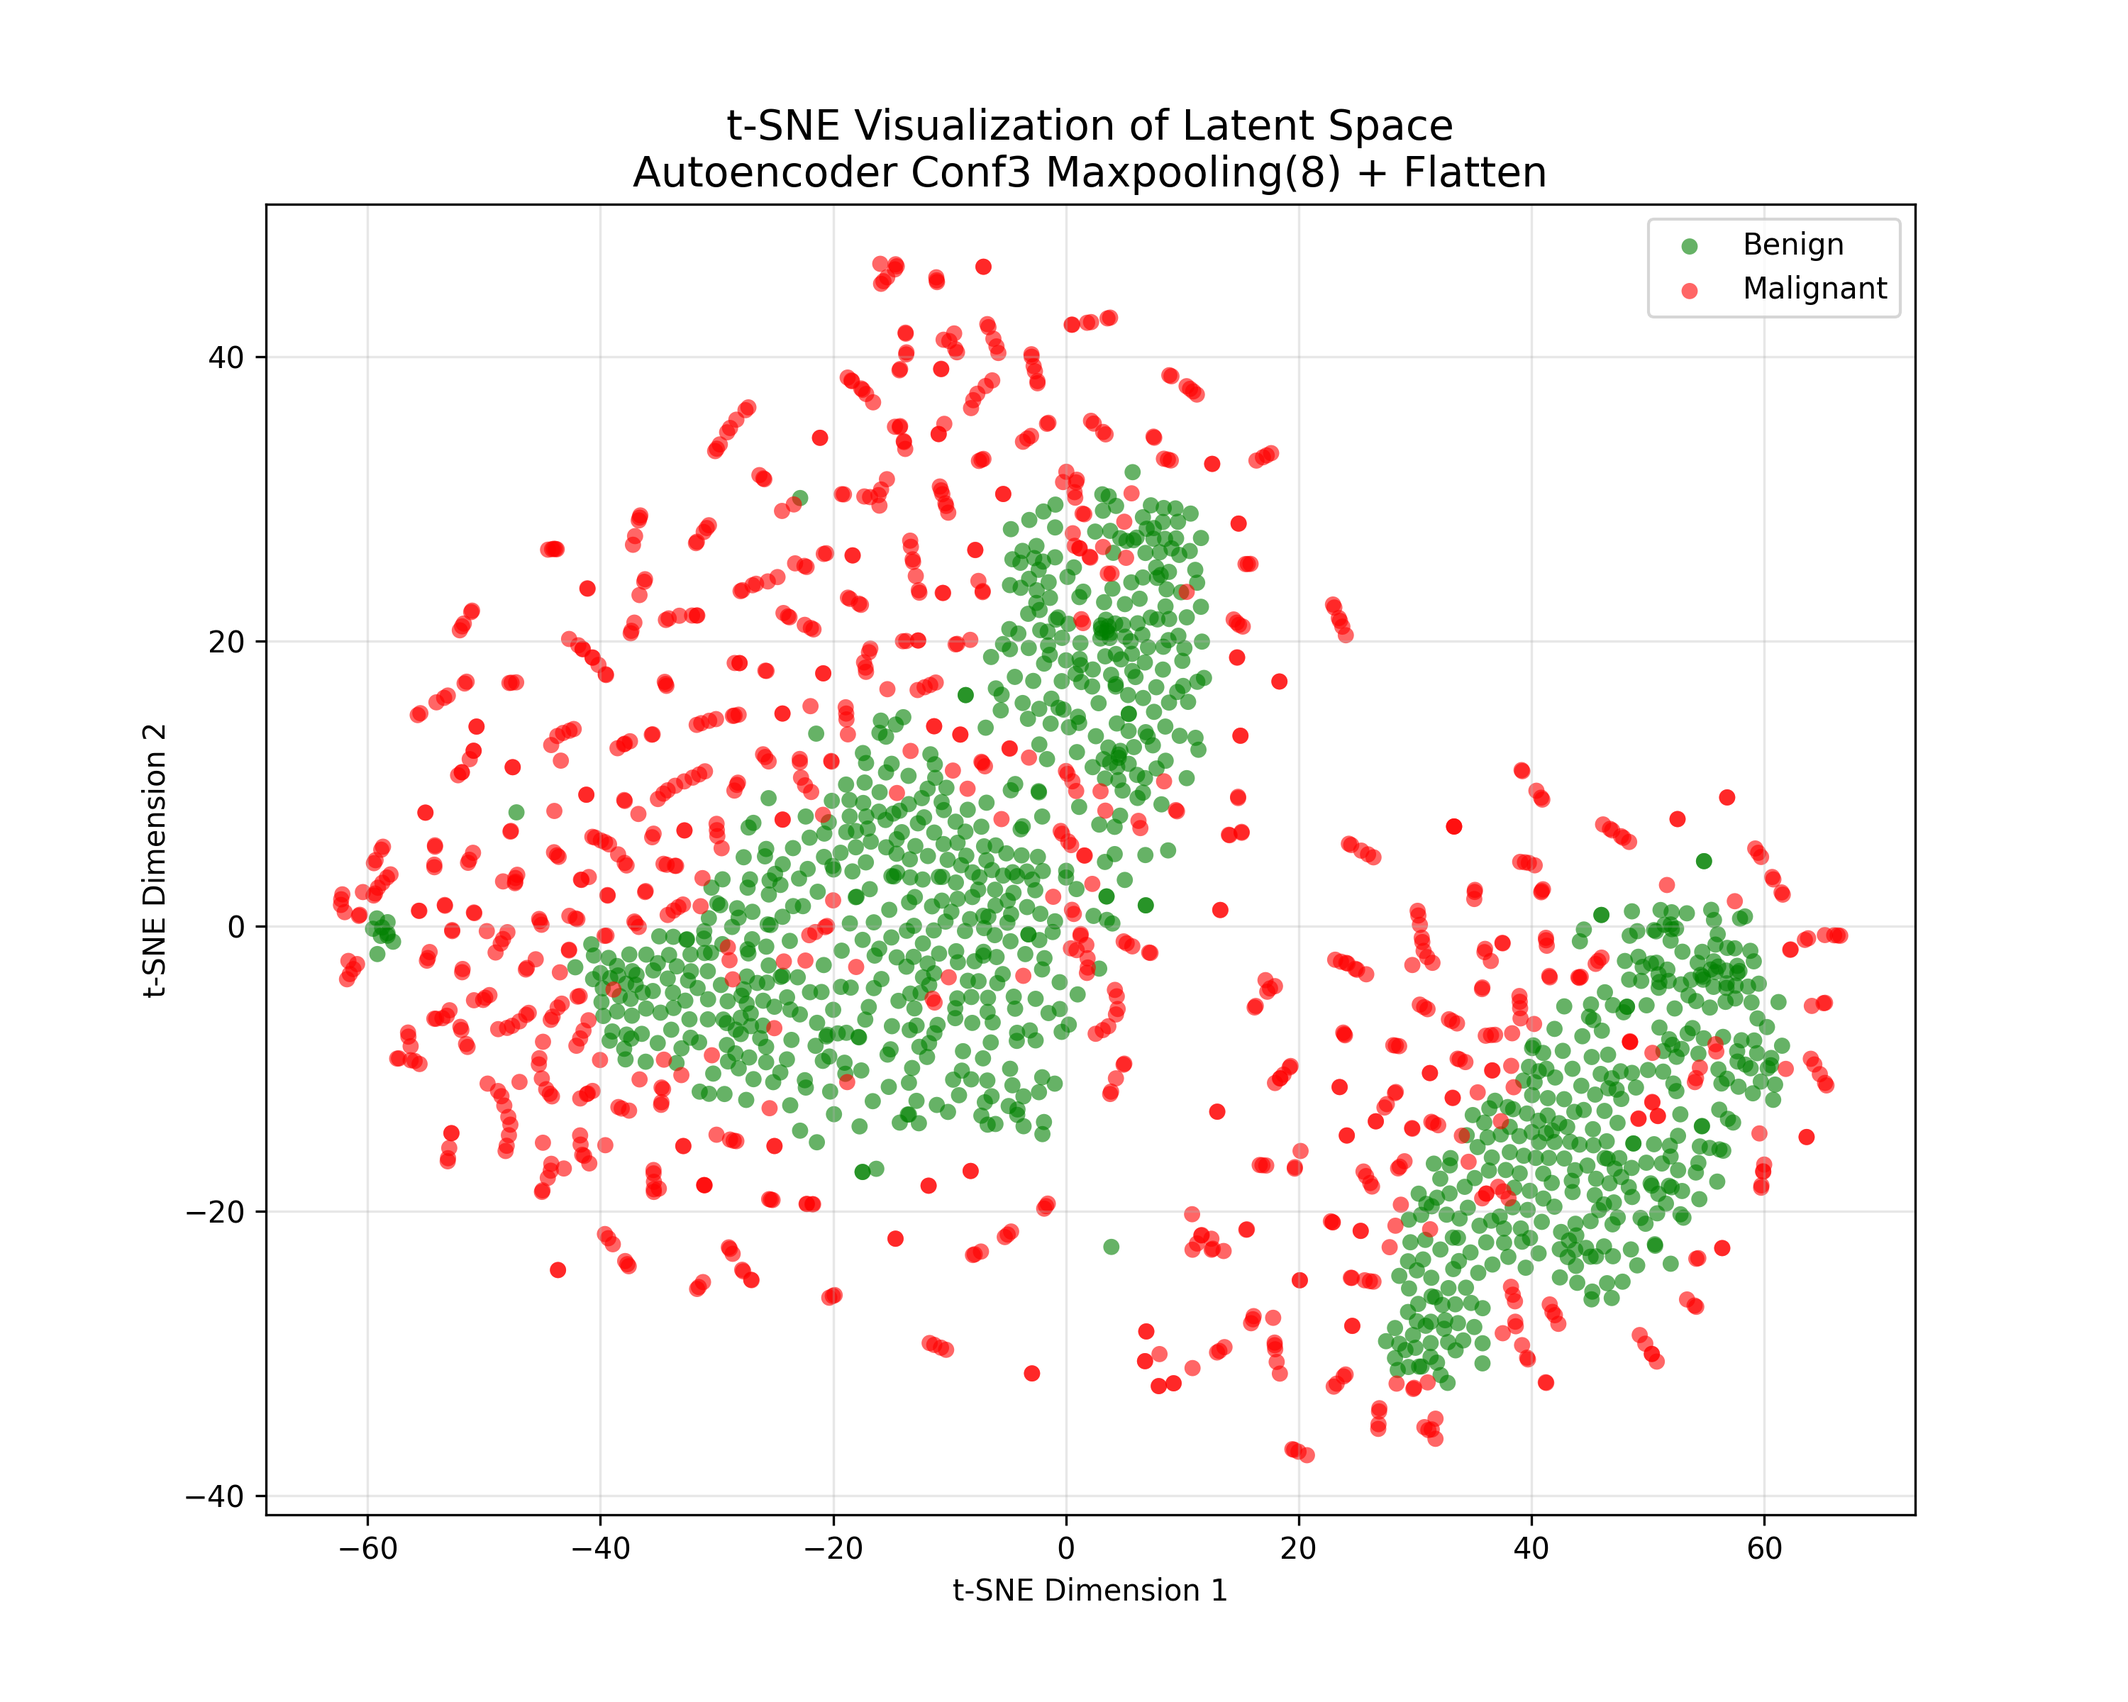
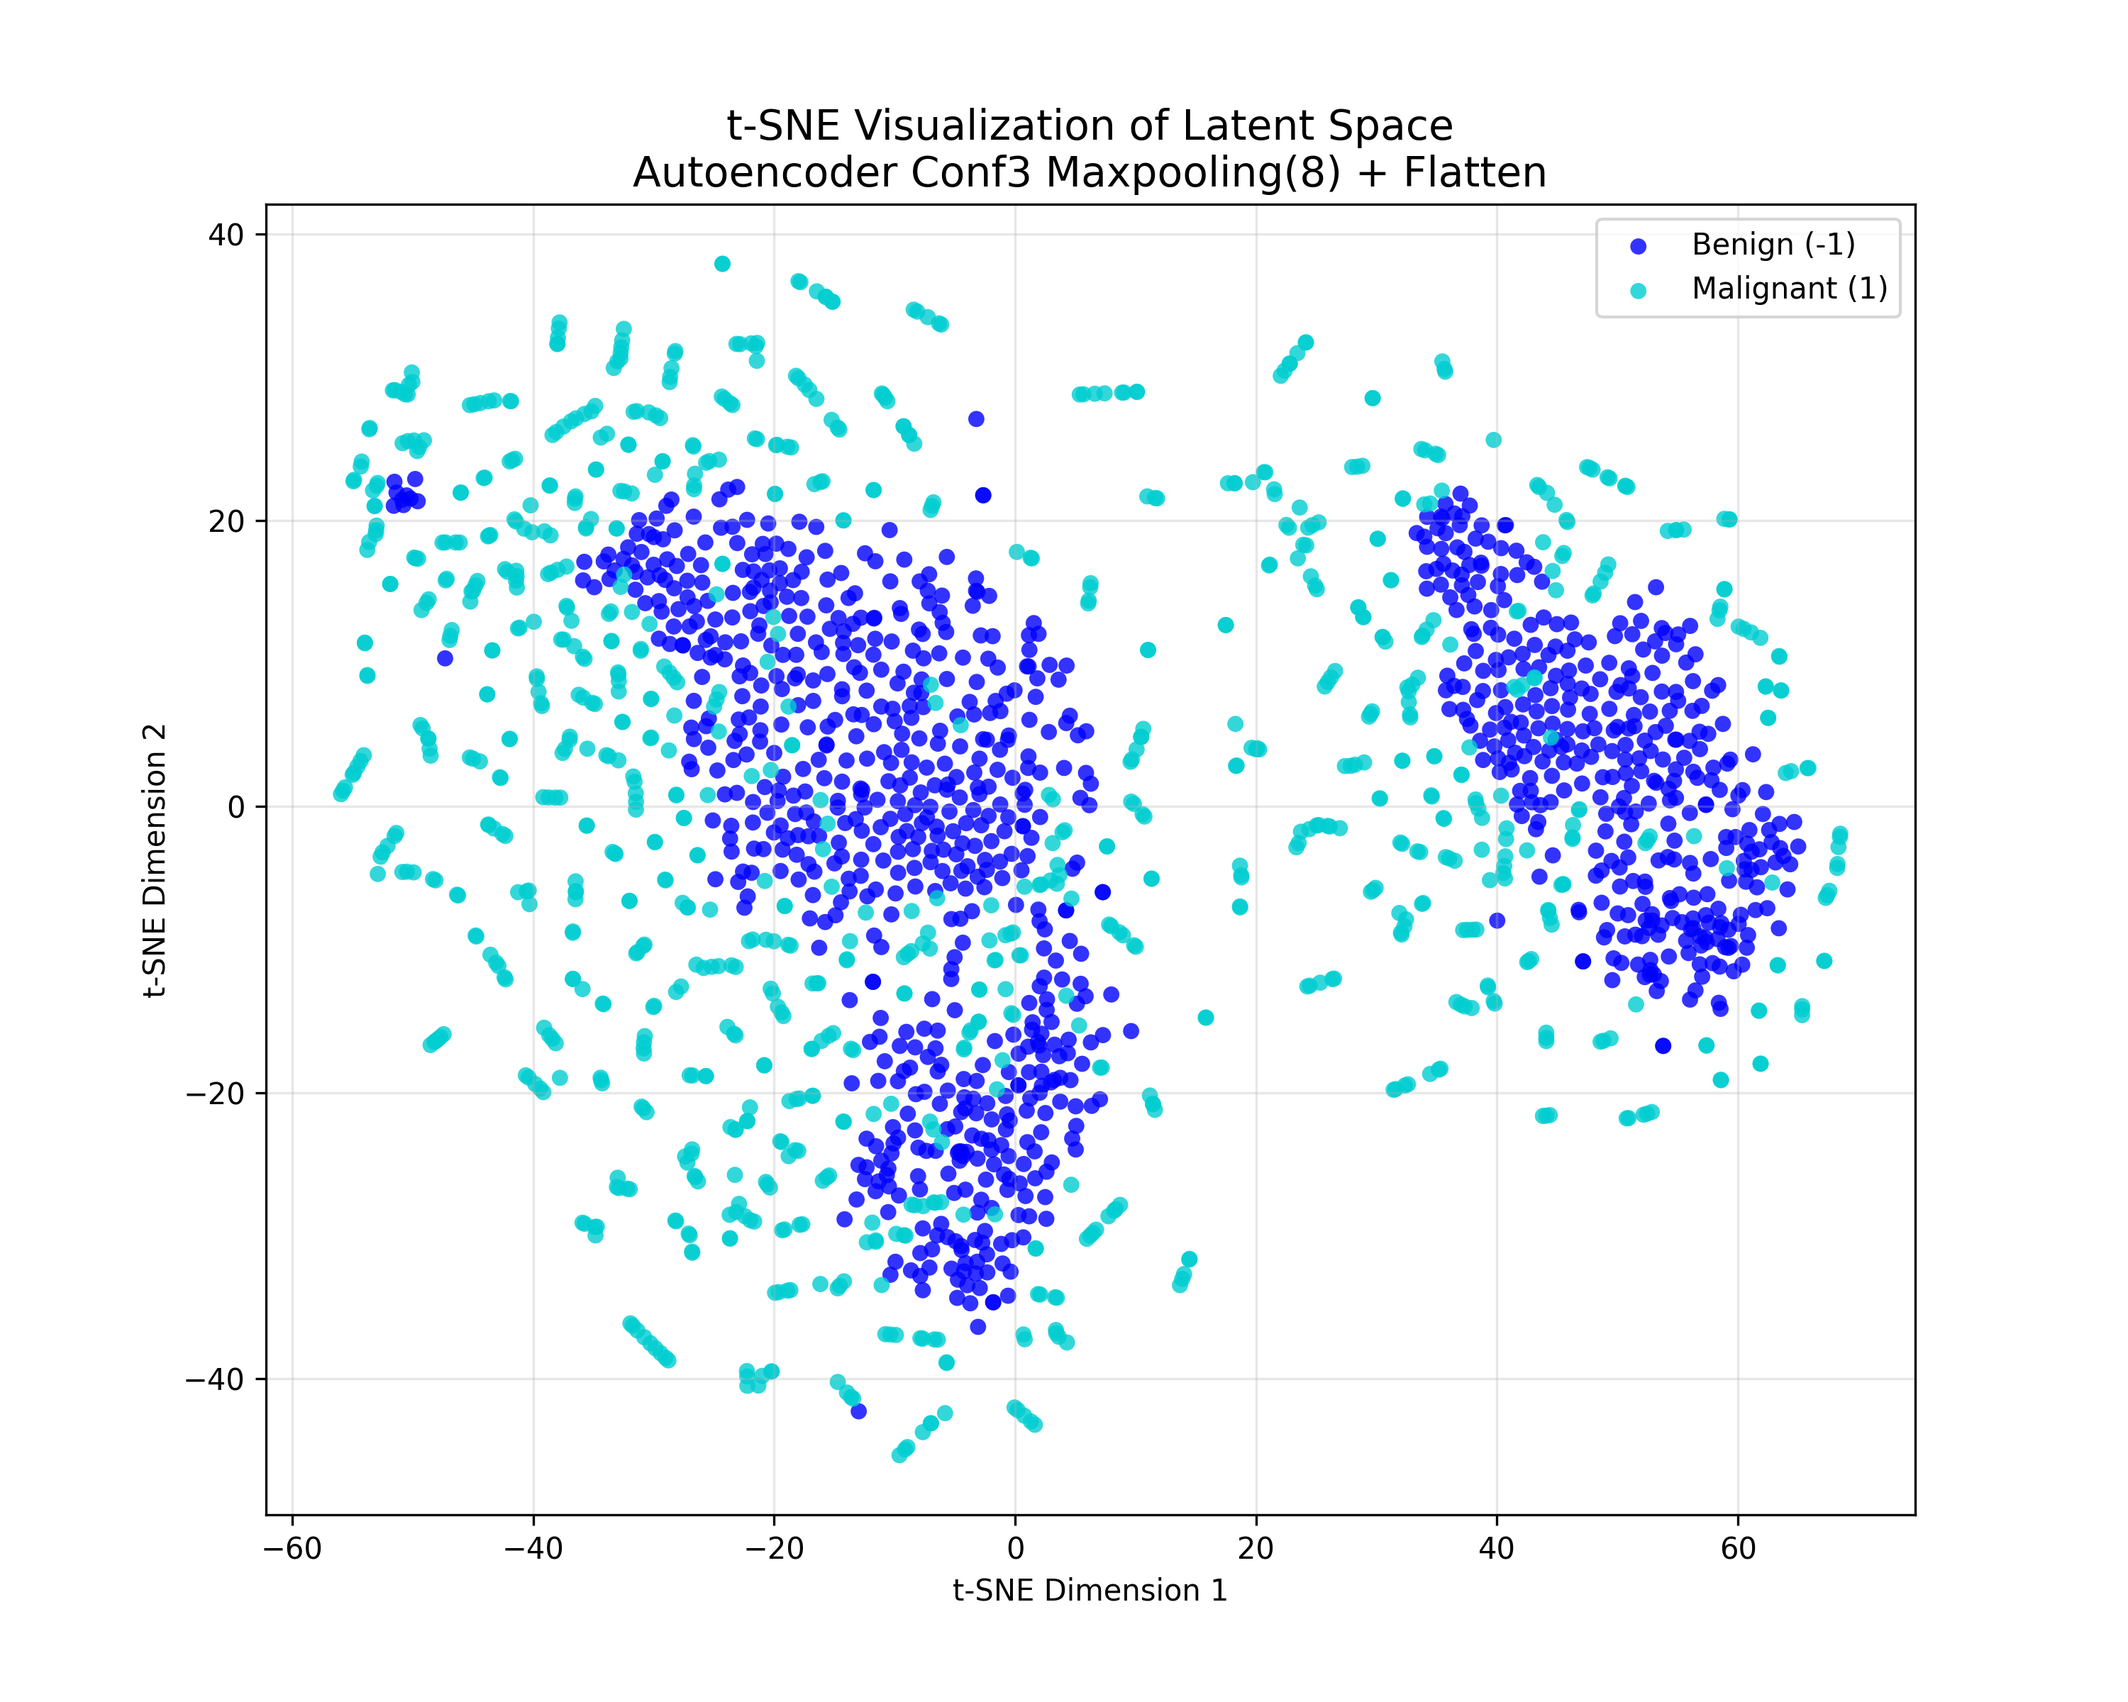
Triplet loss en proceso (creo que va)

diff --git a/tripletLoss.py b/tripletLoss.py
@@ -1,0 +1,299 @@
+import torch
+import torch.nn as nn
+from torch.utils.data import DataLoader, Dataset
+import matplotlib.pyplot as plt
+import numpy as np
+import os
+import random
+from sklearn.manifold import TSNE
+from sklearn.decomposition import PCA
+import torch.nn.functional as F
+
+# Custom imports
+from dataset import HelicoAnnotated, annotated_collate
+from Models.AEmodels import AutoEncoderCNN, VAECNN
+from train_conv_ae import AEConfigs
+from train_conv_vae import VAEConfigs
+
+# ----------------------------
+# CONFIGURATION
+# ----------------------------
+DEVICE = torch.device("cuda" if torch.cuda.is_available() else "cpu")
+MODEL_PATH = "/fhome/vlia01/Medical-Imaging/slurm_output/config_three.pth"
+#MODEL_PATH = "/fhome/vlia01/Medical-Imaging/slurm_output/vae_2.pth"
+BATCH_SIZE = 64 
+MODEL_NAME = "Autoencoder" # "Autoencoder" or "Variational Autoencoder"
+SAVE_FIG = True
+MAX_SAMPLES = 2000 # Total samples to visualize (will try to take half from each class)
+LEARNING_RATE = 1e-4
+EMBEDDING_DIM = 128
+NUM_EPOCHS = 50
+
+# ----------------------------
+# 1. LOAD MODEL
+# ----------------------------
+def load_model(config_id="3", model_path=None, model_name="Autoencoder"):
+    print(f"Loading {model_name} from {model_path}...")
+    
+    if model_name == "Autoencoder":
+        net_paramsEnc, net_paramsDec, inputmodule_paramsEnc, inputmodule_paramsDec = AEConfigs(config_id)
+        model = AutoEncoderCNN(inputmodule_paramsEnc, net_paramsEnc, inputmodule_paramsDec, net_paramsDec)
+    elif model_name == "Variational Autoencoder":
+        net_paramsEnc, net_paramsDec, inputmodule_paramsEnc, inputmodule_paramsDec, net_paramsRep = VAEConfigs(config_id)
+        model = VAECNN(inputmodule_paramsEnc, net_paramsEnc, inputmodule_paramsDec, net_paramsDec, net_paramsRep)
+    else:
+        raise ValueError("Invalid model name")
+    
+    if model_path and os.path.exists(model_path):
+        model.load_state_dict(torch.load(model_path, map_location=DEVICE))
+    else:
+        print(f"Warning: Weights not found at {model_path}. Visualization will be random.")
+            
+    model.to(DEVICE)
+    model.eval()
+    return model
+    
+# ----------------------------
+# 2. EMBEDDING NETWORK FOR TRIPLET
+# ----------------------------
+class EmbeddingNet(nn.Module):
+    def __init__(self, base_model, embedding_dim=128):
+        super().__init__()
+        self.encoder = base_model.encoder
+        self.pool = nn.AdaptiveMaxPool2d((8, 8))
+        self.fc = nn.LazyLinear(embedding_dim)
+
+    def forward(self, x):
+        z = self.encoder(x)           # [B, C, H, W]
+        z = self.pool(z)              # [B, C, 8, 8]
+        z = z.view(z.size(0), -1)     # flatten
+        z = self.fc(z)                # [B, embedding_dim]
+        z = F.normalize(z, p=2, dim=1)
+        return z
+
+
+# ---------------------------
+# 3. Triplet Loss
+# ---------------------------
+
+class TripletLoss(nn.Module):
+    """
+    L = max(0, d(a,p) - d(a,n) + margin)
+    where d is squared Euclidean distance.
+    """
+    def __init__(self, margin=1.0):
+        super(TripletLoss, self).__init__()
+        self.margin = margin
+
+    def calc_euclidean(self, x1, x2):
+        # x1, x2: [B, D] -> returns [B]
+        return (x1 - x2).pow(2).sum(dim=1)
+
+    def forward(self, anchor, positive, negative):
+        distance_positive = self.calc_euclidean(anchor, positive)
+        distance_negative = self.calc_euclidean(anchor, negative)
+        losses = torch.relu(distance_positive - distance_negative + self.margin)
+        return losses.mean()
+
+
+# ----------------------------------------
+# 4. TripletDataset built from QuironDataset
+# ----------------------------------------
+
+class TripletDataset(Dataset):
+    def __init__(self, base_dataset):
+        super(TripletDataset, self).__init__()
+        self.base = base_dataset
+        self.samples = base_dataset.samples  # list of (path, label, pat_id)
+
+        # Build dictionary: label - list of indices with that label
+        self.label_to_indices = {}
+        for idx, (_, label, _) in enumerate(self.samples):
+            if label not in self.label_to_indices:
+                self.label_to_indices[label] = []
+            self.label_to_indices[label].append(idx)
+
+        self.labels = np.array([lbl for (_, lbl, _) in self.samples])
+        self.unique_labels = list(self.label_to_indices.keys())
+
+        if len(self.unique_labels) < 2:
+            raise RuntimeError("Need at least 2 different labels to form triplets.")
+
+    def __len__(self):
+        return len(self.samples)
+        
+    def safe_get(self, index):
+        """Get image and label, skip if None"""
+        data = self.base[index]
+        while data is None:
+            index = (index + 1) % len(self.base)
+            data = self.base[index]
+        return data
+
+    def __getitem__(self, idx):
+        # Anchor
+        anchor_img, anchor_label = self.safe_get(idx)
+    
+        # Positive (same label)
+        same_label_indices = self.label_to_indices[anchor_label]
+        if len(same_label_indices) > 1:
+            pos_idx = idx
+            while pos_idx == idx:
+                pos_idx = random.choice(same_label_indices)
+        else:
+            pos_idx = idx
+        positive_img, _ = self.safe_get(pos_idx)
+    
+        # Negative (different label)
+        neg_label_choices = [l for l in self.unique_labels if l != anchor_label]
+        neg_label = random.choice(neg_label_choices)
+        neg_idx = random.choice(self.label_to_indices[neg_label])
+        negative_img, _ = self.safe_get(neg_idx)
+    
+        return anchor_img, positive_img, negative_img
+
+
+
+# ----------------------------
+# 5. EXTRACT LATENT VECTORS FOR TSNE
+# ----------------------------
+def get_latent_vectors(dataloader, model, model_name="Autoencoder", max_samples=None, force_label=None):
+    latents_list = []
+    labels_list = []
+    total_samples = 0
+    
+    dataset_name = "Benign" if force_label == 0 else "Malignant"
+    print(f"Extracting latent vectors for {dataset_name}...")
+
+    with torch.no_grad():
+        for batch in dataloader:
+            images, targets = batch
+            images = images.to(DEVICE).float()
+            if images.dtype == torch.uint8:
+                images = images.float() / 255.0
+
+            if model_name == "Variational Autoencoder":
+                _, mu, _ = model(images)
+                curr_latents = mu
+            else:
+                curr_latents = model.encoder(images)
+
+            if curr_latents.ndim == 4:
+                curr_latents = F.adaptive_max_pool2d(curr_latents, (8, 8))
+            curr_latents = curr_latents.view(curr_latents.size(0), -1)
+            latents_list.append(curr_latents.cpu().numpy())
+
+            if force_label is not None:
+                labels_list.append(np.full(images.size(0), force_label))
+            else:
+                labels_list.append(targets.numpy())
+
+            total_samples += images.size(0)
+            if max_samples and total_samples >= max_samples:
+                break
+
+    latents = np.concatenate(latents_list, axis=0) if latents_list else np.array([])
+    labels = np.concatenate(labels_list, axis=0) if labels_list else np.array([])
+
+    if max_samples:
+        latents = latents[:max_samples]
+        labels = labels[:max_samples]
+
+    return latents, labels
+
+# ----------------------------
+# 6. TSNE PLOTTING
+# ----------------------------
+def plot_tsne(latents, labels, model_name="Model"):
+    print(f"Computing t-SNE on {latents.shape[0]} samples with {latents.shape[1]} dimensions...")
+    tsne = TSNE(n_components=2, random_state=42, perplexity=40, max_iter=1000, learning_rate='auto', init='pca')
+    tsne_results = tsne.fit_transform(latents)
+
+    print("Plotting...")
+    plt.figure(figsize=(12, 10))
+    labels = labels.astype(int)
+    benign_mask = (labels == 0)
+    malign_mask = (labels == 1)
+
+    plt.scatter(tsne_results[benign_mask, 0], tsne_results[benign_mask, 1], 
+                c='blue', label='Benign (-1)', alpha=0.8, s=40, edgecolors='none')
+    plt.scatter(tsne_results[malign_mask, 0], tsne_results[malign_mask, 1], 
+                c='darkturquoise', label='Malignant (1)', alpha=0.8, s=40, edgecolors='none')
+
+    plt.title(f"t-SNE of Latent Space\n{model_name} conf3 + TRIPLET LOSS", fontsize=16)
+    plt.xlabel("t-SNE Dimension 1", fontsize=14)
+    plt.ylabel("t-SNE Dimension 2", fontsize=14)
+    plt.legend(loc='best', fontsize=12)
+    plt.grid(alpha=0.3)
+
+    if SAVE_FIG:
+        save_dir = "/fhome/vlia01/Medical-Imaging/results"
+        os.makedirs(save_dir, exist_ok=True)
+        plt.savefig(os.path.join(save_dir, f"TripletLoss_{model_name.replace(' ', '_')}.png"), dpi=300)
+    plt.show()
+
+# ----------------------------
+# 7. MAIN
+# ----------------------------
+def main():
+    # Load AE/VAE model
+    model = load_model(config_id="3", model_path=MODEL_PATH, model_name=MODEL_NAME)
+    
+    ###
+    # Triplet Training
+    ###
+    print(f"Starting embbedings...")
+    embedding_model = EmbeddingNet(model, embedding_dim=EMBEDDING_DIM).to(DEVICE)
+    embedding_model.train()
+    criterion = TripletLoss(margin=1.0)
+    optimizer = torch.optim.Adam(embedding_model.parameters(), lr=LEARNING_RATE)
+
+    triplet_dataset = TripletDataset(base_dataset=HelicoAnnotated(load_ram=False))
+    triplet_loader = DataLoader(triplet_dataset, batch_size=BATCH_SIZE, shuffle=True)
+
+    for epoch in range(NUM_EPOCHS):
+        epoch_loss = 0
+        for anchor, positive, negative in triplet_loader:
+            anchor = anchor.to(DEVICE).float()
+            positive = positive.to(DEVICE).float()
+            negative = negative.to(DEVICE).float()
+            if anchor.max() > 1:
+                anchor /= 255.0
+                positive /= 255.0
+                negative /= 255.0
+
+            z_anchor = embedding_model(anchor)
+            z_pos = embedding_model(positive)
+            z_neg = embedding_model(negative)
+
+            loss = criterion(z_anchor, z_pos, z_neg)
+            optimizer.zero_grad()
+            loss.backward()
+            optimizer.step()
+            epoch_loss += loss.item()
+
+        print(f"Epoch [{epoch+1}/{NUM_EPOCHS}], Loss: {epoch_loss/len(triplet_loader):.4f}")
+
+    ###
+    # Extract embeddings for TSNE
+    ###
+    dataset_benign = HelicoAnnotated(only_negative=True, load_ram=False)
+    dataset_malign = HelicoAnnotated(only_positive=True, load_ram=False)
+
+    loader_benign = DataLoader(dataset_benign, batch_size=BATCH_SIZE, shuffle=True, collate_fn=annotated_collate)
+    loader_malign = DataLoader(dataset_malign, batch_size=BATCH_SIZE, shuffle=True, collate_fn=annotated_collate)
+
+    samples_per_class = MAX_SAMPLES // 2 if MAX_SAMPLES else None
+
+    latents_b, labels_b = get_latent_vectors(loader_benign, embedding_model, MODEL_NAME, samples_per_class, force_label=0)
+    latents_m, labels_m = get_latent_vectors(loader_malign, embedding_model, MODEL_NAME, samples_per_class, force_label=1)
+
+    if len(latents_b) > 0 and len(latents_m) > 0:
+        latents = np.concatenate([latents_b, latents_m], axis=0)
+        labels = np.concatenate([labels_b, labels_m], axis=0)
+        plot_tsne(latents, labels, model_name=MODEL_NAME)
+    else:
+        print("Error: Could not extract latents from one or both datasets.")
+
+if __name__ == "__main__":
+    main()

diff --git a/tsne_2.py b/tsne_2.py
@@ -158,10 +158,10 @@ def plot_tsne(latents, labels, model_name="Model"):
     
     # Scatter Plot
     plt.scatter(tsne_results[benign_mask, 0], tsne_results[benign_mask, 1], 
-                c='green', label='Benign', alpha=0.6, s=30, edgecolors='none')
+                c='blue', label='Benign (-1)', alpha=0.8, s=30, edgecolors='none')
     
     plt.scatter(tsne_results[malign_mask, 0], tsne_results[malign_mask, 1], 
-                c='red', label='Malignant', alpha=0.6, s=30, edgecolors='none')
+                c='darkturquoise', label='Malignant (1)', alpha=0.8, s=30, edgecolors='none')
     
     plt.title(f"t-SNE Visualization of Latent Space\n{model_name} Conf3 Maxpooling(8) + Flatten", fontsize=14)
     plt.xlabel("t-SNE Dimension 1")

diff --git a/dataset.py b/dataset.py
@@ -199,7 +199,8 @@ class HelicoAnnotated(Dataset):
                 image = self.transform(image)
                 
             except Exception as e:
-                print(f"Error loading image at index {index}: {e}")
+                #ME MOLESTABA TANTO EL PRINT AJAJAJJA despues lo agregamos
+                #print(f"Error loading image at index {index}: {e}")
                 return None
 
         return image, label

diff --git a/reconstruction.py b/reconstruction.py
@@ -273,6 +273,7 @@ def main():
         subset_name="Malignant"
     )
 
+
     # 4. Statistical Analysis (Full Dataset)
     # This iterates the WHOLE dataset to find if the error can be used for classification
     print("\nCalculating Full Dataset Statistics...")
